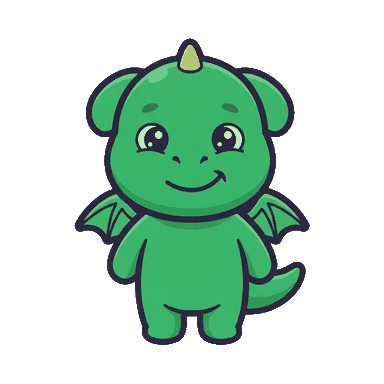
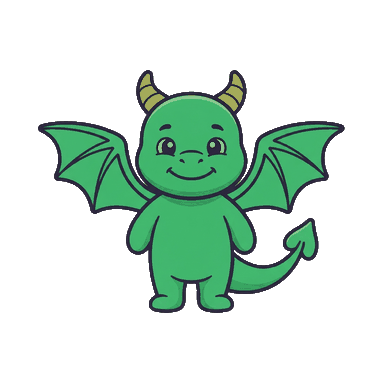
Gruppo 1: 19 creature, con 5 rigenerate dopo la revisione
Le illustrazioni non sono ancora usate dal gioco: la conversione da <use href>
a <img src> resta l'ultimo passo.

La revisione a occhio diceva che le 19 erano coerenti, e lo erano. Ma la
misura di somiglianza a 80 px ha trovato quello che l'occhio non vedeva:
monster e umbra distavano 34.7 e dragon e dinosaur 38.0, contro una mediana
di 75.5 su 171 coppie. Meno della meta' della distanza tipica.

dragon e dinosaur e' il caso grave: sono ENTRAMBI vocabolario, in unita'
vicine, e il costruttore di partite puo' metterli come distrattori nella
stessa griglia. Un bambino a cui viene chiesto "dragon" e che vede due
creature verdi bipedi con occhioni sceglie a caso, e sbaglia per colpa
dell'illustrazione invece che per non sapere la parola. Ora il drago ha le
ali spiegate e il dinosauro placche arancioni e coda lunga: sagome diverse,
non solo colori diversi.

monster e umbra erano due creature viola rotonde con orecchie a punta. Umbra
e' diventata quello che il suo nome dice: un'ombra nera con occhi gialli.

Altre tre corrette per motivi visti a occhio: barky non mostrava la faccia e a
80 px era un albero qualunque — che e' anche una parola del gruppo 2; torrek
sembrava una cassetta della posta invece di una creatura.

Dopo: la coppia peggiore e' 44.7 su mediana 76.3, e dragon<->dinosaur e'
uscita dalle prime sei.

Resta segnalata cat<->dog a 50.3: sono entrambe parole dell'unita' 5 e
possono comparire insieme, ma gatto e cane sono un contrasto che un bambino
[…]

Changed region(s): [[0.0938, 0.0938, 0.9062, 0.9062]]

diff --git a/tools/art-review.html b/tools/art-review.html
@@ -3,102 +3,120 @@
 <head>
 <meta charset="utf-8">
 <base href="../">
-<title>Illustrazioni — confronto</title>
+<title>Illustrazioni — revisione</title>
 <link rel="stylesheet" href="design-system.css">
 <style>
   /*
-    Confronto fra le illustrazioni generate e gli sprite SVG attuali, sulle
-    superfici vere del gioco. Serve a validare lo stile prima di generare
-    tutto il resto, e resta come banco di prova per i gruppi successivi.
-    Uso: python3 -m http.server 8080 -> /tools/art-review.html
+    Revisione di un gruppo di illustrazioni, sulle superfici vere del gioco.
+    Le due domande a cui deve rispondere:
+      1. sembrano disegnate dalla stessa mano?
+      2. reggono a 80 px, che e' la dimensione reale nell'album?
+    Uso: python3 -m http.server 8080 -> /tools/art-review.html?gruppo=1
   */
   body {
-    margin: 0; padding: 30px 26px 60px; color: var(--on-night);
+    margin: 0; padding: 28px 24px 60px; color: var(--on-night);
     background: radial-gradient(120% 90% at 50% 0%, #3a2d6e 0%, var(--night-800) 45%, var(--night-900) 100%) fixed;
   }
-  .wrap { max-width: 1180px; margin: 0 auto; }
-  h1 { font-size: 27px; margin: 0 0 4px; font-weight: 600; }
-  .sub { color: var(--muted-night); margin: 0 0 30px; font-weight: 400; }
+  .wrap { max-width: 1400px; margin: 0 auto; }
+  h1 { font-size: 26px; margin: 0 0 4px; font-weight: 600; }
+  .sub { color: var(--muted-night); margin: 0 0 26px; font-weight: 400; }
   h2 { font-size: 12px; letter-spacing: .12em; text-transform: uppercase; color: var(--muted-night);
-       border-bottom: 2px solid rgba(255,255,255,.14); padding-bottom: 8px; margin: 30px 0 16px; font-weight: 600; }
-  table { border-collapse: collapse; width: 100%; }
-  td, th { padding: 12px 10px; border-bottom: 1px solid rgba(255,255,255,.1); vertical-align: middle; text-align: center; }
-  th { font-size: 11px; letter-spacing: .09em; text-transform: uppercase; color: var(--muted-night); font-weight: 600; }
-  td.nome { text-align: left; font-weight: 600; font-size: 14px; width: 110px; }
+       border-bottom: 2px solid rgba(255,255,255,.14); padding-bottom: 8px; margin: 26px 0 16px; font-weight: 600; }
+  .cap { font-size: 13px; color: var(--muted-night); margin: 10px 0 0; font-weight: 400; max-width: 90ch; }
+
+  .griglia { display: flex; flex-wrap: wrap; gap: 12px; }
+  .cella { text-align: center; }
   .tile {
-    width: 128px; height: 128px; margin: 0 auto; display: grid; place-items: center;
+    width: 118px; height: 118px; display: grid; place-items: center; padding: 8px;
     background: var(--paper); border: var(--stroke) solid var(--ink);
-    border-radius: var(--r-l); box-shadow: var(--sh-card); padding: 8px;
+    border-radius: var(--r-l); box-shadow: var(--sh-card);
   }
-  .tile svg, .tile img { width: 100%; height: 100%; object-fit: contain; fill: none; }
-  .mini { width: 80px; height: 80px; }
-  .onnight { background: transparent; border: 0; box-shadow: none; }
-  .strip { display: flex; gap: 14px; align-items: flex-end; flex-wrap: wrap; }
-  .cap { font-size: 12px; color: var(--muted-night); margin-top: 8px; font-weight: 400; }
-  .alpha {
-    background-image: linear-gradient(45deg,#555 25%,transparent 25%),linear-gradient(-45deg,#555 25%,transparent 25%),
-                      linear-gradient(45deg,transparent 75%,#555 75%),linear-gradient(-45deg,transparent 75%,#555 75%);
-    background-size: 16px 16px; background-position: 0 0,0 8px,8px -8px,-8px 0;
-    border: var(--stroke) solid var(--ink); border-radius: var(--r-l); padding: 8px;
-    width: 128px; height: 128px; display: grid; place-items: center; margin: 0 auto;
+  .tile img, .tile svg { width: 100%; height: 100%; object-fit: contain; fill: none; }
+  .tile.p80 { width: 80px; height: 80px; padding: 5px; border-width: 2px; border-radius: 16px; }
+  .nome { font-size: 11px; color: var(--muted-night); margin-top: 6px; font-weight: 400; }
+
+  /* Album vero: card come le vede il bambino */
+  .album { display: flex; flex-wrap: wrap; gap: 12px; }
+  .creature-card {
+    background: var(--paper); color: var(--ink); width: 132px;
+    border: var(--stroke) solid var(--ink); border-radius: var(--r-l);
+    box-shadow: var(--sh-card); padding: 12px 8px;
+    display: flex; flex-direction: column; align-items: center; gap: 5px;
   }
-  .alpha img { width: 100%; height: 100%; object-fit: contain; }
+  .creature-card .art { width: 84px; height: 84px; }
+  .creature-card .art img { width: 100%; height: 100%; object-fit: contain; }
+  .creature-card b { font-size: 13px; font-weight: 600; }
+
+  table { border-collapse: collapse; width: 100%; }
+  td, th { padding: 8px 6px; border-bottom: 1px solid rgba(255,255,255,.09); text-align: center; }
+  th { font-size: 11px; letter-spacing: .09em; text-transform: uppercase; color: var(--muted-night); font-weight: 600; }
+  td.n { text-align: left; font-size: 12px; font-weight: 600; width: 96px; }
 </style>
 </head>
 <body>
 <div id="sprite-host" hidden></div>
 <div class="wrap">
-  <h1>Illustrazioni generate — confronto con gli sprite attuali</h1>
-  <p class="sub">Quattro campioni, sfondo gia' rimosso. Le superfici sono quelle vere del gioco.</p>
+  <h1 id="titolo">Illustrazioni — revisione</h1>
+  <p class="sub" id="sottotitolo"></p>
 
-  <h2>1 · Nuovo contro vecchio, sulla card del gioco</h2>
-  <table>
-    <tr><th></th><th>SVG attuale</th><th>Generata</th><th>Trasparenza</th><th>A 80&nbsp;px<br><span style="text-transform:none;font-weight:400">(regola 6)</span></th></tr>
-    <tbody id="righe"></tbody>
-  </table>
+  <h2>1 · Tutte insieme — sembrano disegnate dalla stessa mano?</h2>
+  <div class="griglia" id="tutte"></div>
+  <p class="cap">Da guardare: spessore del contorno, saturazione dei fill, dimensione degli occhi, quanto ogni soggetto riempie il riquadro. Una sola che stona si vede subito qui.</p>
 
-  <h2>2 · Pepe accanto alle creature, come nell'album</h2>
-  <div class="strip" id="album"></div>
-  <p class="cap">Il contorno e i fill devono sembrare disegnati dalla stessa mano. Il confronto vero e' fra la Pepe generata e le altre tre.</p>
+  <h2>2 · A 80 px — la dimensione reale nell'album</h2>
+  <div class="griglia" id="piccole"></div>
+  <p class="cap">Regola 6 del design system. Se a questa dimensione un soggetto diventa una macchia indistinta, va rifatto con forme piu' grosse.</p>
 
-  <h2>3 · Sulla schermata di gioco</h2>
-  <div class="strip" id="gioco"></div>
-  <p class="cap">Le quattro illustrazioni nelle card di scelta, alla dimensione reale.</p>
+  <h2>3 · Nuovo contro SVG attuale</h2>
+  <table><thead><tr id="intestazione"></tr></thead><tbody id="confronto"></tbody></table>
+
+  <h2>4 · Come appaiono nell'album</h2>
+  <div class="album" id="album"></div>
 </div>
 
 <script type="module">
-  import { loadAll } from './js/content-loader.js';
+  import { loadAll, content } from './js/content-loader.js';
   await loadAll();
 
-  const CAMPIONI = [
-    ['sp-pepe',   'Pepe'],
-    ['sp-dragon', 'Drago'],
-    ['sp-castle', 'Castello'],
-    ['sp-big',    '"big"']
-  ];
+  const gruppo = new URLSearchParams(location.search).get('gruppo') || '1';
+  const doc = await (await fetch('tools/image-subjects.json')).json();
+  const soggetti = doc.soggetti.filter(s => String(s.batch) === gruppo);
 
-  const svgTag = (id, cls = '') =>
-    `<svg class="${cls}" viewBox="0 0 100 100"><use href="#${id}"></use></svg>`;
-  const imgTag = (id) => `<img src="assets/img/art/${id}.png" alt="">`;
+  document.getElementById('titolo').textContent =
+    `Illustrazioni — gruppo ${gruppo} (${soggetti.length})`;
+  document.getElementById('sottotitolo').textContent =
+    'Sfondo gia’ rimosso, ritagliate e centrate. Le superfici sono quelle vere del gioco.';
 
-  document.getElementById('righe').innerHTML = CAMPIONI.map(([id, nome]) => `
-    <tr>
-      <td class="nome">${nome}<br><span style="font-weight:400;font-size:11px;color:var(--muted-night)">${id}</span></td>
-      <td><div class="tile">${svgTag(id)}</div></td>
-      <td><div class="tile">${imgTag(id)}</div></td>
-      <td><div class="alpha">${imgTag(id)}</div></td>
-      <td><div class="tile mini">${imgTag(id)}</div></td>
-    </tr>`).join('');
+  const img = (id, cls = '') => `<img class="${cls}" src="assets/img/art/${id}.png" alt="">`;
+  const svg = (id) => `<svg viewBox="0 0 100 100"><use href="#${id}"></use></svg>`;
 
-  // Album: Pepe generata accanto a creature ancora in SVG.
-  document.getElementById('album').innerHTML = `
-    <div><div class="tile">${imgTag('sp-pepe')}</div><div class="cap">Pepe · generata</div></div>
-    <div><div class="tile">${svgTag('sp-flamup')}</div><div class="cap">Fiammino · SVG</div></div>
-    <div><div class="tile">${svgTag('sp-numo')}</div><div class="cap">Numo · SVG</div></div>
-    <div><div class="tile">${imgTag('sp-dragon')}</div><div class="cap">Drago · generato</div></div>`;
+  document.getElementById('tutte').innerHTML = soggetti.map(s =>
+    `<div class="cella"><div class="tile">${img(s.id)}</div>
+     <div class="nome">${s.id.replace('sp-', '')}</div></div>`).join('');
 
-  document.getElementById('gioco').innerHTML = CAMPIONI
-    .map(([id]) => `<div class="tile">${imgTag(id)}</div>`).join('');
+  document.getElementById('piccole').innerHTML = soggetti.map(s =>
+    `<div class="cella"><div class="tile p80">${img(s.id)}</div>
+     <div class="nome">${s.id.replace('sp-', '')}</div></div>`).join('');
+
+  // Confronto a coppie, su piu' righe da cinque per stare nello schermo.
+  const PER_RIGA = 6;
+  const righe = [];
+  for (let i = 0; i < soggetti.length; i += PER_RIGA) righe.push(soggetti.slice(i, i + PER_RIGA));
+  document.getElementById('intestazione').innerHTML = '';
+  document.getElementById('confronto').innerHTML = righe.map(riga => `
+    <tr><td class="n">SVG attuale</td>${riga.map(s => `<td><div class="tile">${svg(s.id)}</div></td>`).join('')}</tr>
+    <tr><td class="n">generata</td>${riga.map(s => `<td><div class="tile">${img(s.id)}</div>
+        <div class="nome">${s.id.replace('sp-', '')}</div></td>`).join('')}</tr>
+  `).join('');
+
+  // Album: solo le creature che hanno davvero una card, col loro nome vero.
+  const conNome = content.creatures
+    .filter(c => soggetti.some(s => s.id === c.sprite));
+  document.getElementById('album').innerHTML = conNome.map(c => `
+    <div class="creature-card">
+      <div class="art">${img(c.sprite)}</div>
+      <b>${c.name_it}</b>
+    </div>`).join('');
 </script>
 </body>
 </html>
